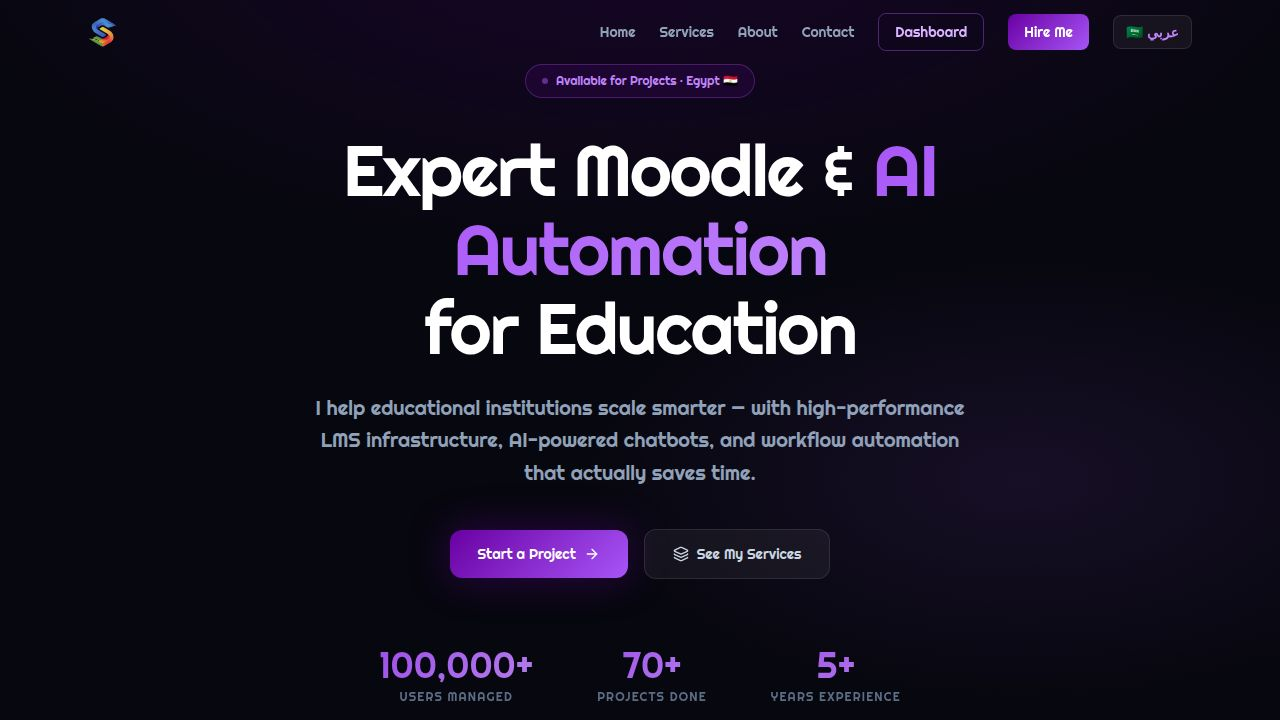
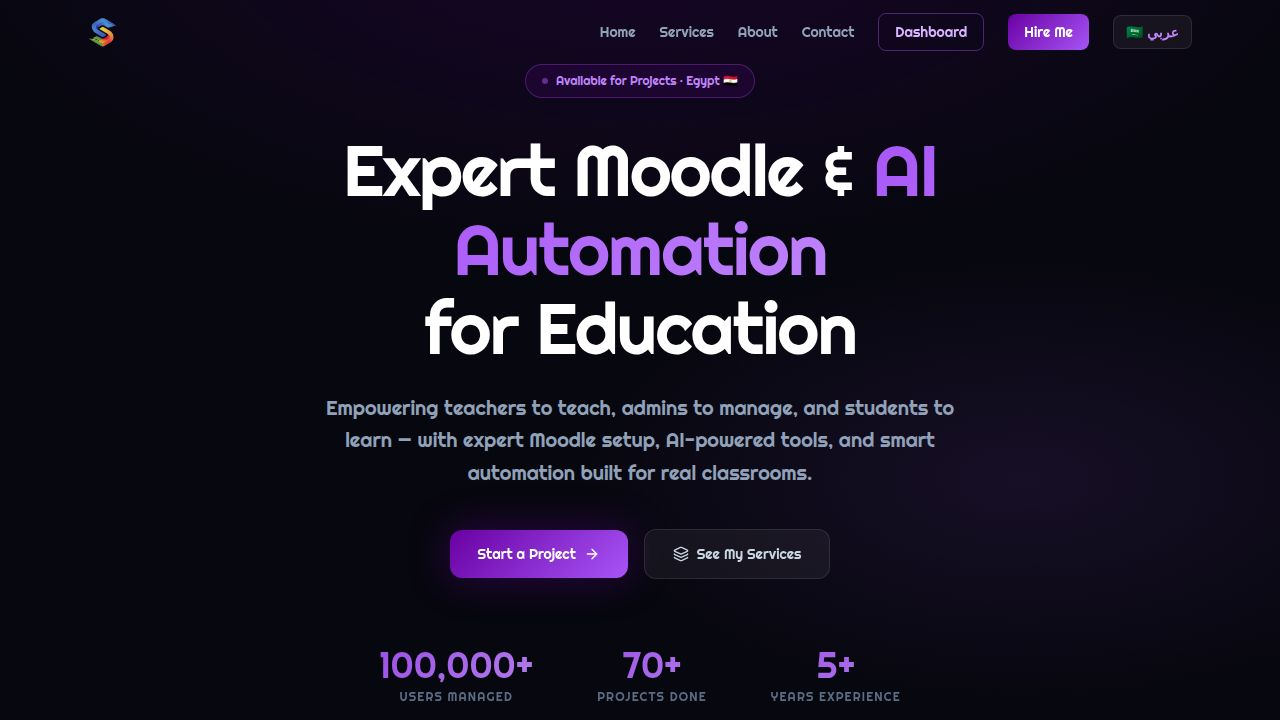
feat(#13): About section redesign + site title update + hero slogan
## Changes

### 1. AboutSection.tsx — Layout restructure
- Left column now stacks TWO cards vertically:
  1. Mohammad Nabil bio card (avatar, name, role, bio, Mostaql/Khamsat links)
  2. Moodle Community Expert card (Award badge, description, Moodle.org link)
- Right column now shows a profile photo placeholder:
  - Purple gradient circle with "MN" initials, glowing box-shadow
  - "Photo coming soon" caption below (bilingual via t.about.photoPlaceholder)
  - Stats row (100,000+ / 70+ / 5+) placed directly below the placeholder inside the right column

### 2. Home.tsx — Browser tab title
- Changed <title> from "Mohammad Nabil | Moodle Expert & AI Automation — Smart Learn"
  to just "Smart Learn"
- Also updated og:title to "Smart Learn" for social sharing consistency

### 3. i18n/en.ts — Hero subtitle + new key
- hero.subtitle: updated to "Empowering teachers to teach, admins to manage, and
  students to learn — with expert Moodle setup, AI-powered tools, and smart automation
  built for real classrooms."
- about.photoPlaceholder: "Photo coming soon"

### 4. i18n/ar.ts — Arabic translations
- hero.subtitle: Arabic equivalent of the new slogan
- about.photoPlaceholder: "الصورة قريباً"

## No deviations from task spec

Changed region(s): [[0.25, 0.55, 0.75, 0.6722]]

diff --git a/artifacts/smart-learn/src/components/sections/AboutSection.tsx b/artifacts/smart-learn/src/components/sections/AboutSection.tsx
@@ -35,88 +35,87 @@ export function AboutSection() {
         </motion.div>
 
         <div className="grid md:grid-cols-2 gap-8 items-start">
+          {/* Left column: Bio card + Community Expert card stacked */}
           <motion.div
             initial={{ opacity: 0, x: -20 }}
             whileInView={{ opacity: 1, x: 0 }}
             viewport={{ once: true }}
             transition={{ duration: 0.6, ease: "easeOut" }}
-            className="rounded-2xl p-8"
-            style={{
-              background: "rgba(255,255,255,0.03)",
-              border: "1px solid rgba(255,255,255,0.07)",
-            }}
-          >
-            <div className="flex items-center gap-4 mb-6">
-              <div
-                className="w-16 h-16 rounded-2xl flex items-center justify-center text-xl font-black text-white flex-shrink-0"
-                style={{ background: "linear-gradient(135deg, #6900A3, #c084fc)" }}
-              >
-                MN
-              </div>
-              <div>
-                <h3
-                  className="text-xl font-black text-white"
-                  style={{ fontFamily: "'Cairo', sans-serif" }}
-                >
-                  {t.about.name}
-                </h3>
-                <p
-                  className="text-sm text-slate-500"
-                  style={{ fontFamily: "'Cairo', sans-serif" }}
-                >
-                  {t.about.role}
-                </p>
-              </div>
-            </div>
-
-            <p
-              className="text-slate-400 leading-relaxed mb-6"
-              style={{ fontFamily: "'Cairo', sans-serif" }}
-            >
-              {t.about.bio}
-            </p>
-
-            <div className="flex flex-wrap gap-3">
-              <a
-                href="https://mostaql.com"
-                target="_blank"
-                rel="noopener noreferrer"
-                className="inline-flex items-center gap-1.5 text-sm font-bold px-3.5 py-2 rounded-lg transition-all duration-200 hover:opacity-80"
-                style={{
-                  background: "rgba(105,0,163,0.15)",
-                  color: "#c084fc",
-                  border: "1px solid rgba(168,85,247,0.25)",
-                  fontFamily: "'Cairo', sans-serif",
-                }}
-              >
-                {t.about.mostaql}
-                <ExternalLink size={13} />
-              </a>
-              <a
-                href="https://khamsat.com"
-                target="_blank"
-                rel="noopener noreferrer"
-                className="inline-flex items-center gap-1.5 text-sm font-bold px-3.5 py-2 rounded-lg transition-all duration-200 hover:opacity-80"
-                style={{
-                  background: "rgba(105,0,163,0.15)",
-                  color: "#c084fc",
-                  border: "1px solid rgba(168,85,247,0.25)",
-                  fontFamily: "'Cairo', sans-serif",
-                }}
-              >
-                {t.about.khamsat}
-                <ExternalLink size={13} />
-              </a>
-            </div>
-          </motion.div>
-
-          <motion.div
-            initial={{ opacity: 0, x: 20 }}
-            whileInView={{ opacity: 1, x: 0 }}
-            viewport={{ once: true }}
-            transition={{ duration: 0.6, delay: 0.1, ease: "easeOut" }}
             className="flex flex-col gap-5"
           >
+            {/* Bio card */}
+            <div
+              className="rounded-2xl p-8"
+              style={{
+                background: "rgba(255,255,255,0.03)",
+                border: "1px solid rgba(255,255,255,0.07)",
+              }}
+            >
+              <div className="flex items-center gap-4 mb-6">
+                <div
+                  className="w-16 h-16 rounded-2xl flex items-center justify-center text-xl font-black text-white flex-shrink-0"
+                  style={{ background: "linear-gradient(135deg, #6900A3, #c084fc)" }}
+                >
+                  MN
+                </div>
+                <div>
+                  <h3
+                    className="text-xl font-black text-white"
+                    style={{ fontFamily: "'Cairo', sans-serif" }}
+                  >
+                    {t.about.name}
+                  </h3>
+                  <p
+                    className="text-sm text-slate-500"
+                    style={{ fontFamily: "'Cairo', sans-serif" }}
+                  >
+                    {t.about.role}
+                  </p>
+                </div>
+              </div>
+
+              <p
+                className="text-slate-400 leading-relaxed mb-6"
+                style={{ fontFamily: "'Cairo', sans-serif" }}
+              >
+                {t.about.bio}
+              </p>
+
+              <div className="flex flex-wrap gap-3">
+                <a
+                  href="https://mostaql.com"
+                  target="_blank"
+                  rel="noopener noreferrer"
+                  className="inline-flex items-center gap-1.5 text-sm font-bold px-3.5 py-2 rounded-lg transition-all duration-200 hover:opacity-80"
+                  style={{
+                    background: "rgba(105,0,163,0.15)",
+                    color: "#c084fc",
+                    border: "1px solid rgba(168,85,247,0.25)",
+                    fontFamily: "'Cairo', sans-serif",
+                  }}
+                >
+                  {t.about.mostaql}
+                  <ExternalLink size={13} />
+                </a>
+                <a
+                  href="https://khamsat.com"
+                  target="_blank"
+                  rel="noopener noreferrer"
+                  className="inline-flex items-center gap-1.5 text-sm font-bold px-3.5 py-2 rounded-lg transition-all duration-200 hover:opacity-80"
+                  style={{
+                    background: "rgba(105,0,163,0.15)",
+                    color: "#c084fc",
+                    border: "1px solid rgba(168,85,247,0.25)",
+                    fontFamily: "'Cairo', sans-serif",
+                  }}
+                >
+                  {t.about.khamsat}
+                  <ExternalLink size={13} />
+                </a>
+              </div>
+            </div>
+
+            {/* Moodle Community Expert card */}
             <div
               className="rounded-2xl p-6"
               style={{
@@ -161,7 +160,43 @@ export function AboutSection() {
                 </div>
               </div>
             </div>
+          </motion.div>
 
+          {/* Right column: Profile photo placeholder */}
+          <motion.div
+            initial={{ opacity: 0, x: 20 }}
+            whileInView={{ opacity: 1, x: 0 }}
+            viewport={{ once: true }}
+            transition={{ duration: 0.6, delay: 0.1, ease: "easeOut" }}
+            className="flex flex-col gap-5"
+          >
+            <div
+              className="rounded-2xl overflow-hidden flex flex-col items-center justify-center"
+              style={{
+                background:
+                  "linear-gradient(145deg, rgba(105,0,163,0.18) 0%, rgba(168,85,247,0.08) 50%, rgba(105,0,163,0.12) 100%)",
+                border: "1px solid rgba(168,85,247,0.2)",
+                minHeight: "420px",
+              }}
+            >
+              <div
+                className="w-32 h-32 rounded-full flex items-center justify-center text-4xl font-black text-white mb-5 shadow-lg"
+                style={{
+                  background: "linear-gradient(135deg, #6900A3 0%, #a855f7 60%, #c084fc 100%)",
+                  boxShadow: "0 0 40px rgba(168,85,247,0.35)",
+                }}
+              >
+                MN
+              </div>
+              <p
+                className="text-slate-500 text-sm"
+                style={{ fontFamily: "'Cairo', sans-serif" }}
+              >
+                {t.about.photoPlaceholder}
+              </p>
+            </div>
+
+            {/* Stats row */}
             <div
               className="grid grid-cols-3 gap-4 rounded-2xl p-6"
               style={{

diff --git a/artifacts/smart-learn/src/pages/Home.tsx b/artifacts/smart-learn/src/pages/Home.tsx
@@ -13,7 +13,7 @@ export default function Home() {
   return (
     <>
       <Helmet>
-        <title>Mohammad Nabil | Moodle Expert &amp; AI Automation — Smart Learn</title>
+        <title>Smart Learn</title>
         <meta
           name="description"
           content="Expert Moodle engineering, AI-RAG systems, n8n automation, and LMS plugin development. Serving education institutions worldwide from Egypt."
@@ -22,7 +22,7 @@ export default function Home() {
           name="keywords"
           content="Moodle RAG System, Automated Moodle Grading, n8n Moodle Expert Egypt, Mohammad Nabil Moodle, Moodle AI chatbot, LMS automation Egypt, Moodle plugin developer"
         />
-        <meta property="og:title" content="Mohammad Nabil | Moodle Expert & AI Automation — Smart Learn" />
+        <meta property="og:title" content="Smart Learn" />
         <meta
           property="og:description"
           content="Expert Moodle engineering, AI-RAG systems, n8n automation, and LMS plugin development. Serving education institutions worldwide from Egypt."

diff --git a/artifacts/smart-learn/src/i18n/ar.ts b/artifacts/smart-learn/src/i18n/ar.ts
@@ -14,7 +14,7 @@ export const ar = {
     titleGradient: "الأتمتة الذكية",
     title2: "للتعليم",
     subtitle:
-      "أساعد المؤسسات التعليمية على النمو بذكاء — ببنية LMS عالية الأداء وروبوتات ذكية وأتمتة سير العمل التي توفر الوقت فعلاً.",
+      "نُمكّن المعلمين من التدريس، والمسؤولين من الإدارة، والطلاب من التعلّم — بإعداد Moodle احترافي وأدوات ذكاء اصطناعي وأتمتة ذكية مصممة للفصول الحقيقية.",
     ctaPrimary: "ابدأ مشروعك",
     ctaSecondary: "اكتشف خدماتي",
     stat1Value: "+100,000",
@@ -83,6 +83,7 @@ export const ar = {
     stat1Label: "مستخدم تحت الإدارة",
     stat2Label: "مشروع",
     stat3Label: "سنوات",
+    photoPlaceholder: "الصورة قريباً",
   },
   contact: {
     badge: "📧 تواصل معنا",

diff --git a/artifacts/smart-learn/src/i18n/en.ts b/artifacts/smart-learn/src/i18n/en.ts
@@ -14,7 +14,7 @@ export const en = {
     titleGradient: "AI Automation",
     title2: "for Education",
     subtitle:
-      "I help educational institutions scale smarter — with high-performance LMS infrastructure, AI-powered chatbots, and workflow automation that actually saves time.",
+      "Empowering teachers to teach, admins to manage, and students to learn — with expert Moodle setup, AI-powered tools, and smart automation built for real classrooms.",
     ctaPrimary: "Start a Project",
     ctaSecondary: "See My Services",
     stat1Value: "100,000+",
@@ -83,6 +83,7 @@ export const en = {
     stat1Label: "Users Managed",
     stat2Label: "Projects",
     stat3Label: "Years",
+    photoPlaceholder: "Photo coming soon",
   },
   contact: {
     badge: "📧 Contact",
